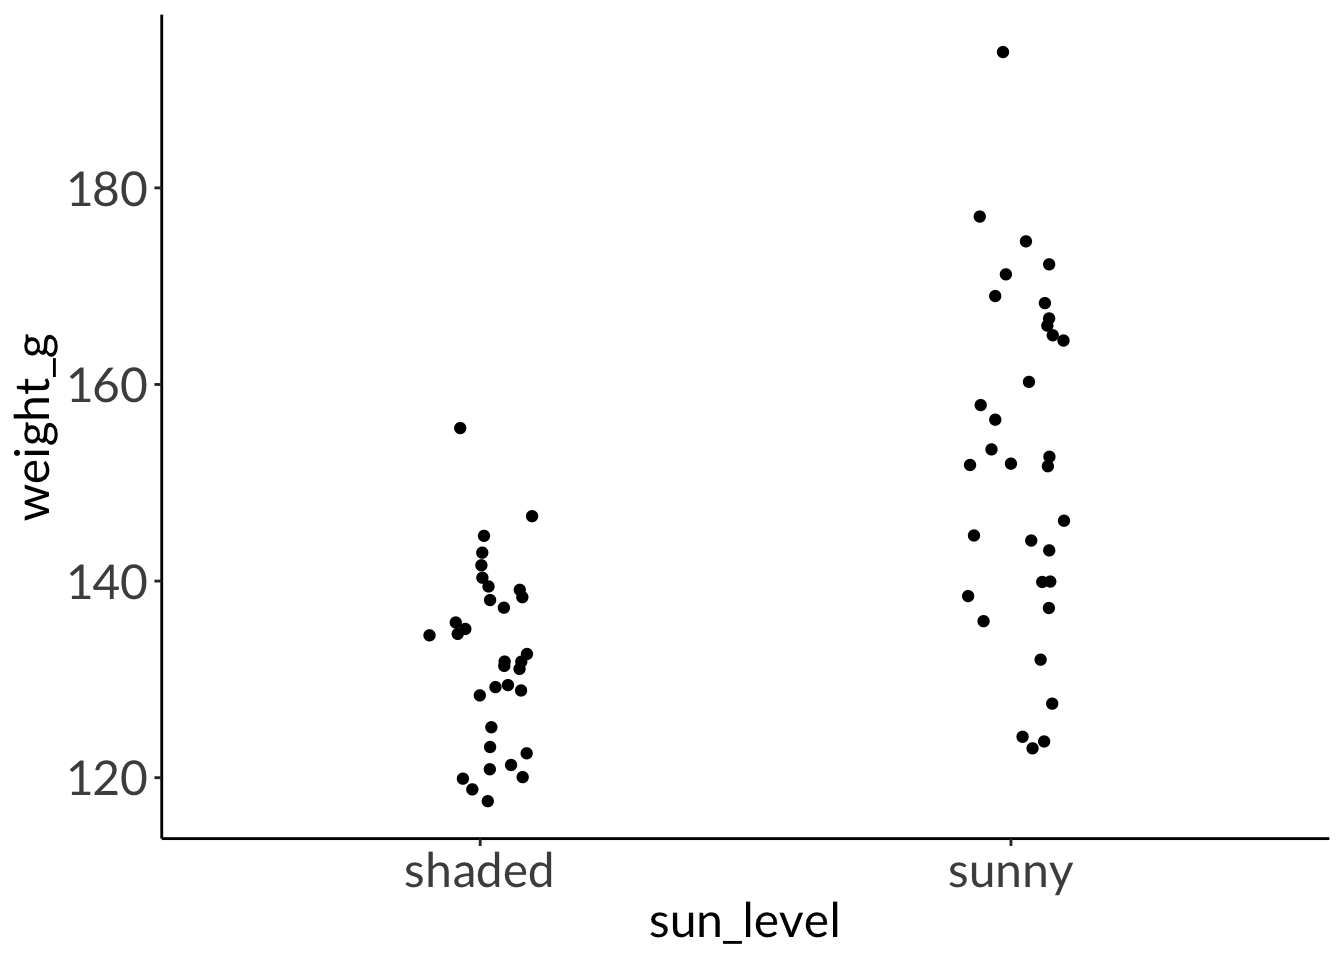
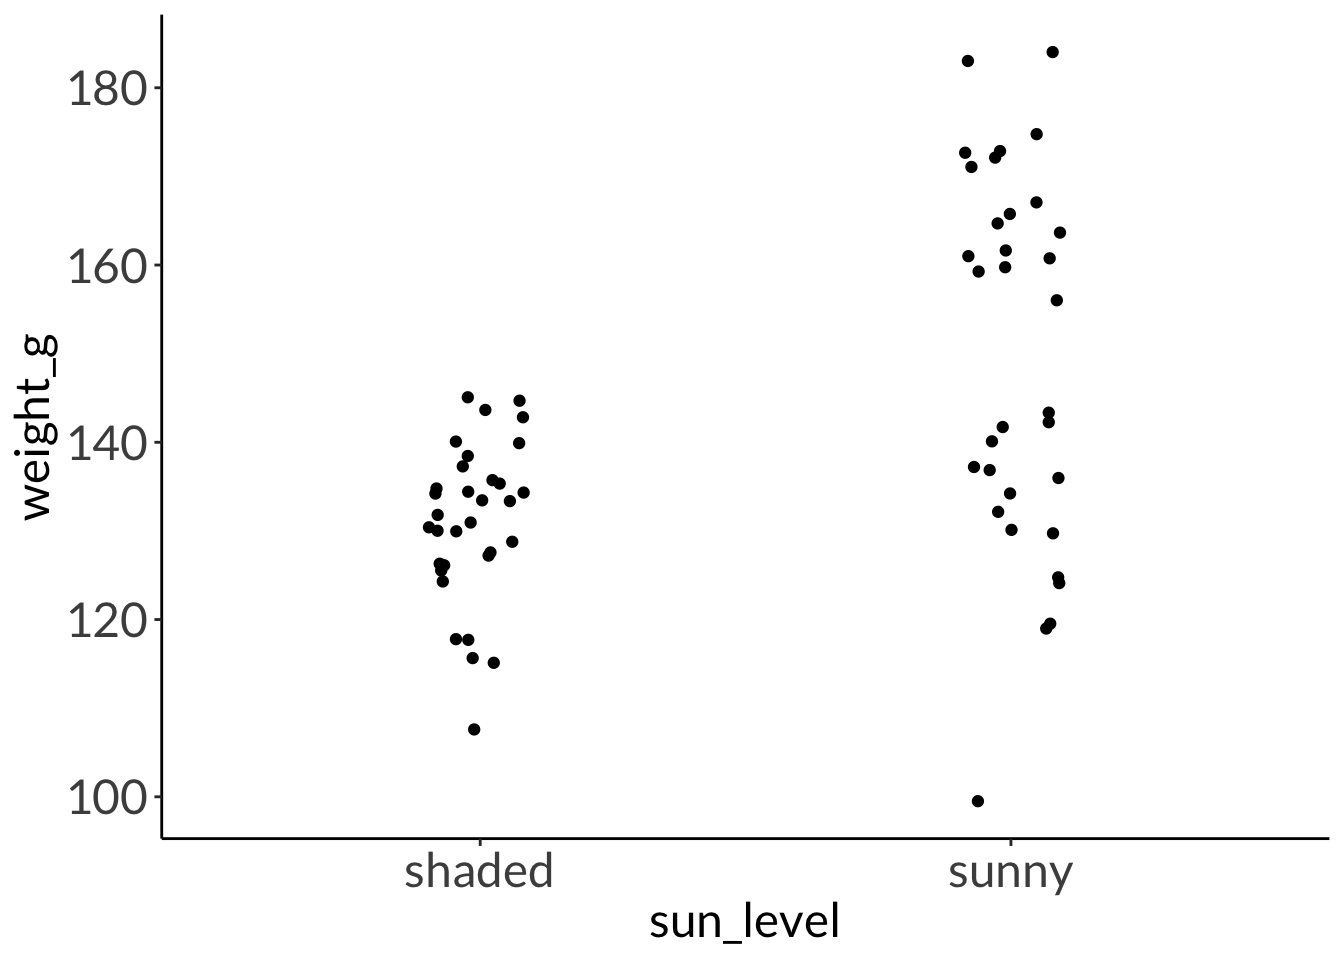
more lecture week 4 edits

diff --git a/docs/lecture/lecture_week-04.html b/docs/lecture/lecture_week-04.html
@@ -353,13 +353,13 @@ SE_{\bar{y_A} - \bar{y_B}} = \sqrt{\frac{s_A^2}{n_A}+\frac{s_B^2}{n_B}}
     F test to compare two variances
 
 data:  weight_g by sun_level
-F = 0.27041, num df = 32, denom df = 32, p-value = 0.0003828
+F = 0.18086, num df = 32, denom df = 32, p-value = 5.395e-06
 alternative hypothesis: true ratio of variances is not equal to 1
 95 percent confidence interval:
- 0.1335533 0.5475161
+ 0.08932403 0.36619345
 sample estimates:
 ratio of variances 
-         0.2704119 </code></pre>
+         0.1808587 </code></pre>
 </div>
 <details class="code-fold">
 <summary>Code</summary>
@@ -372,13 +372,13 @@ ratio of variances
     Welch Two Sample t-test
 
 data:  weight_g by sun_level
-t = -5.832, df = 48.127, p-value = 4.486e-07
+t = -4.7037, df = 43.208, p-value = 2.632e-05
 alternative hypothesis: true difference in means between group shaded and group sunny is not equal to 0
 95 percent confidence interval:
- -26.75666 -13.03796
+ -26.85729 -10.73987
 sample estimates:
 mean in group shaded  mean in group sunny 
-            132.3540             152.2513 </code></pre>
+            130.9212             149.7197 </code></pre>
 </div>
 </div>
 </section>
@@ -454,13 +454,13 @@ NOTE: n is number in *each* group</code></pre>
     F test to compare two variances
 
 data:  weight_g by compost_bin
-F = 1.9613, num df = 33, denom df = 33, p-value = 0.0571
+F = 1.6649, num df = 33, denom df = 33, p-value = 0.1483
 alternative hypothesis: true ratio of variances is not equal to 1
 95 percent confidence interval:
- 0.9795004 3.9270284
+ 0.8314885 3.3336165
 sample estimates:
 ratio of variances 
-          1.961256 </code></pre>
+          1.664892 </code></pre>
 </div>
 <details class="code-fold">
 <summary>Code</summary>
@@ -473,13 +473,13 @@ ratio of variances
     Welch Two Sample t-test
 
 data:  weight_g by compost_bin
-t = -5.5277, df = 59.708, p-value = 7.52e-07
+t = -5.3344, df = 62.132, p-value = 1.426e-06
 alternative hypothesis: true difference in means between group citrus and group non_citrus is not equal to 0
 95 percent confidence interval:
- -31.10719 -14.57482
+ -27.87176 -12.67741
 sample estimates:
     mean in group citrus mean in group non_citrus 
-                139.0542                 161.8952 </code></pre>
+                141.7282                 162.0028 </code></pre>
 </div>
 </div>
 </section>
@@ -554,7 +554,7 @@ mean in group a mean in group b
 <span id="cb20-9"><a href="#cb20-9" aria-hidden="true" tabindex="-1"></a>       <span class="fu">aes</span>(<span class="at">x =</span> plot_type,</span>
 <span id="cb20-10"><a href="#cb20-10" aria-hidden="true" tabindex="-1"></a>           <span class="at">y =</span> height_cm,</span>
 <span id="cb20-11"><a href="#cb20-11" aria-hidden="true" tabindex="-1"></a>           <span class="at">color =</span> plot_type)) <span class="sc">+</span></span>
-<span id="cb20-12"><a href="#cb20-12" aria-hidden="true" tabindex="-1"></a>  <span class="fu">geom_point</span>(<span class="at">position =</span> <span class="fu">position_jitter</span>(<span class="at">width =</span> <span class="fl">0.1</span>, <span class="at">seed =</span> <span class="dv">10</span>),</span>
+<span id="cb20-12"><a href="#cb20-12" aria-hidden="true" tabindex="-1"></a>  <span class="fu">geom_point</span>(<span class="at">position =</span> <span class="fu">position_jitter</span>(<span class="at">width =</span> <span class="fl">0.1</span>, <span class="at">height =</span> <span class="dv">0</span>, <span class="at">seed =</span> <span class="dv">10</span>),</span>
 <span id="cb20-13"><a href="#cb20-13" aria-hidden="true" tabindex="-1"></a>             <span class="at">alpha =</span> <span class="fl">0.2</span>) <span class="sc">+</span></span>
 <span id="cb20-14"><a href="#cb20-14" aria-hidden="true" tabindex="-1"></a>  <span class="fu">stat_summary</span>(<span class="at">geom =</span> <span class="st">"pointrange"</span>,</span>
 <span id="cb20-15"><a href="#cb20-15" aria-hidden="true" tabindex="-1"></a>               <span class="at">fun.data =</span> mean_cl_normal) </span></code><button title="Copy to Clipboard" class="code-copy-button"><i class="bi"></i></button></pre></div>
@@ -573,7 +573,7 @@ mean in group a mean in group b
 <span id="cb21-3"><a href="#cb21-3" aria-hidden="true" tabindex="-1"></a>       <span class="fu">aes</span>(<span class="at">x =</span> plot_type,</span>
 <span id="cb21-4"><a href="#cb21-4" aria-hidden="true" tabindex="-1"></a>           <span class="at">y =</span> height_cm,</span>
 <span id="cb21-5"><a href="#cb21-5" aria-hidden="true" tabindex="-1"></a>           <span class="at">color =</span> plot_type)) <span class="sc">+</span></span>
-<span id="cb21-6"><a href="#cb21-6" aria-hidden="true" tabindex="-1"></a>  <span class="fu">geom_point</span>(<span class="at">position =</span> <span class="fu">position_jitter</span>(<span class="at">width =</span> <span class="fl">0.1</span>, <span class="at">seed =</span> <span class="dv">10</span>),</span>
+<span id="cb21-6"><a href="#cb21-6" aria-hidden="true" tabindex="-1"></a>  <span class="fu">geom_point</span>(<span class="at">position =</span> <span class="fu">position_jitter</span>(<span class="at">width =</span> <span class="fl">0.1</span>, <span class="at">height =</span> <span class="dv">0</span>, <span class="at">seed =</span> <span class="dv">10</span>),</span>
 <span id="cb21-7"><a href="#cb21-7" aria-hidden="true" tabindex="-1"></a>             <span class="at">alpha =</span> <span class="fl">0.2</span>) <span class="sc">+</span></span>
 <span id="cb21-8"><a href="#cb21-8" aria-hidden="true" tabindex="-1"></a>  <span class="fu">scale_color_manual</span>(<span class="at">values =</span> <span class="fu">c</span>(<span class="st">"darkgreen"</span>, <span class="st">"cornflowerblue"</span>)) <span class="sc">+</span></span>
 <span id="cb21-9"><a href="#cb21-9" aria-hidden="true" tabindex="-1"></a>  <span class="fu">stat_summary</span>(<span class="at">geom =</span> <span class="st">"pointrange"</span>,</span>
@@ -1355,7 +1355,7 @@ window.document.addEventListener("DOMContentLoaded", function (event) {
 <span id="cb34-181"><a href="#cb34-181" aria-hidden="true" tabindex="-1"></a><span class="in">       aes(x = plot_type,</span></span>
 <span id="cb34-182"><a href="#cb34-182" aria-hidden="true" tabindex="-1"></a><span class="in">           y = height_cm,</span></span>
 <span id="cb34-183"><a href="#cb34-183" aria-hidden="true" tabindex="-1"></a><span class="in">           color = plot_type)) +</span></span>
-<span id="cb34-184"><a href="#cb34-184" aria-hidden="true" tabindex="-1"></a><span class="in">  geom_point(position = position_jitter(width = 0.1, seed = 10),</span></span>
+<span id="cb34-184"><a href="#cb34-184" aria-hidden="true" tabindex="-1"></a><span class="in">  geom_point(position = position_jitter(width = 0.1, height = 0, seed = 10),</span></span>
 <span id="cb34-185"><a href="#cb34-185" aria-hidden="true" tabindex="-1"></a><span class="in">             alpha = 0.2) +</span></span>
 <span id="cb34-186"><a href="#cb34-186" aria-hidden="true" tabindex="-1"></a><span class="in">  stat_summary(geom = "pointrange",</span></span>
 <span id="cb34-187"><a href="#cb34-187" aria-hidden="true" tabindex="-1"></a><span class="in">               fun.data = mean_cl_normal) </span></span>
@@ -1365,7 +1365,7 @@ window.document.addEventListener("DOMContentLoaded", function (event) {
 <span id="cb34-191"><a href="#cb34-191" aria-hidden="true" tabindex="-1"></a><span class="in">       aes(x = plot_type,</span></span>
 <span id="cb34-192"><a href="#cb34-192" aria-hidden="true" tabindex="-1"></a><span class="in">           y = height_cm,</span></span>
 <span id="cb34-193"><a href="#cb34-193" aria-hidden="true" tabindex="-1"></a><span class="in">           color = plot_type)) +</span></span>
-<span id="cb34-194"><a href="#cb34-194" aria-hidden="true" tabindex="-1"></a><span class="in">  geom_point(position = position_jitter(width = 0.1, seed = 10),</span></span>
+<span id="cb34-194"><a href="#cb34-194" aria-hidden="true" tabindex="-1"></a><span class="in">  geom_point(position = position_jitter(width = 0.1, height = 0, seed = 10),</span></span>
 <span id="cb34-195"><a href="#cb34-195" aria-hidden="true" tabindex="-1"></a><span class="in">             alpha = 0.2) +</span></span>
 <span id="cb34-196"><a href="#cb34-196" aria-hidden="true" tabindex="-1"></a><span class="in">  scale_color_manual(values = c("darkgreen", "cornflowerblue")) +</span></span>
 <span id="cb34-197"><a href="#cb34-197" aria-hidden="true" tabindex="-1"></a><span class="in">  stat_summary(geom = "pointrange",</span></span>

diff --git a/docs/lecture.html b/docs/lecture.html
@@ -317,7 +317,7 @@ window.Quarto = {
 </td>
 
 </tr>
-<tr data-index="3" data-categories="" data-listing-date-sort="1713682800000" data-listing-file-modified-sort="1713761373825" data-listing-date-modified-sort="1713761373000" data-listing-reading-time-sort="6" data-listing-word-count-sort="1138" data-listing-title-sort="Week 4 figures - Lectures 7 and 8" data-listing-filename-sort="lecture_week-04.qmd">
+<tr data-index="3" data-categories="" data-listing-date-sort="1713682800000" data-listing-file-modified-sort="1713762578076" data-listing-date-modified-sort="1713762578000" data-listing-reading-time-sort="6" data-listing-word-count-sort="1144" data-listing-title-sort="Week 4 figures - Lectures 7 and 8" data-listing-filename-sort="lecture_week-04.qmd">
 <td>
 <a href="./lecture/lecture_week-04.html" class="title listing-title">Week 4 figures - Lectures 7 and 8</a>
 </td>

diff --git a/docs/assignments/getting-set-up.html b/docs/assignments/getting-set-up.html
@@ -925,7 +925,7 @@ window.document.addEventListener("DOMContentLoaded", function (event) {
 <span id="cb1-99"><a href="#cb1-99" aria-hidden="true" tabindex="-1"></a></span></code><button title="Copy to Clipboard" class="code-copy-button"><i class="bi"></i></button></pre></div>
 </div></div></div></div></div>
 </div> <!-- /content -->
-<script>var lightboxQuarto = GLightbox({"selector":".lightbox","closeEffect":"zoom","loop":false,"descPosition":"bottom","openEffect":"zoom"});
+<script>var lightboxQuarto = GLightbox({"closeEffect":"zoom","loop":false,"selector":".lightbox","openEffect":"zoom","descPosition":"bottom"});
 window.onload = () => {
   lightboxQuarto.on('slide_before_load', (data) => {
     const { slideIndex, slideNode, slideConfig, player, trigger } = data;

diff --git a/docs/index.html b/docs/index.html
@@ -784,7 +784,7 @@ window.document.addEventListener("DOMContentLoaded", function (event) {
 <span id="cb1-73"><a href="#cb1-73" aria-hidden="true" tabindex="-1"></a></span></code><button title="Copy to Clipboard" class="code-copy-button"><i class="bi"></i></button></pre></div>
 </div></div></div></div></div>
 </div> <!-- /content -->
-<script>var lightboxQuarto = GLightbox({"closeEffect":"zoom","loop":false,"openEffect":"zoom","descPosition":"bottom","selector":".lightbox"});
+<script>var lightboxQuarto = GLightbox({"selector":".lightbox","descPosition":"bottom","closeEffect":"zoom","openEffect":"zoom","loop":false});
 window.onload = () => {
   lightboxQuarto.on('slide_before_load', (data) => {
     const { slideIndex, slideNode, slideConfig, player, trigger } = data;

diff --git a/docs/resources/using-virtual-machine.html b/docs/resources/using-virtual-machine.html
@@ -821,7 +821,7 @@ window.document.addEventListener("DOMContentLoaded", function (event) {
 <span id="cb1-85"><a href="#cb1-85" aria-hidden="true" tabindex="-1"></a></span></code><button title="Copy to Clipboard" class="code-copy-button"><i class="bi"></i></button></pre></div>
 </div></div></div></div></div>
 </div> <!-- /content -->
-<script>var lightboxQuarto = GLightbox({"loop":false,"selector":".lightbox","descPosition":"bottom","openEffect":"zoom","closeEffect":"zoom"});
+<script>var lightboxQuarto = GLightbox({"loop":false,"openEffect":"zoom","selector":".lightbox","descPosition":"bottom","closeEffect":"zoom"});
 window.onload = () => {
   lightboxQuarto.on('slide_before_load', (data) => {
     const { slideIndex, slideNode, slideConfig, player, trigger } = data;
